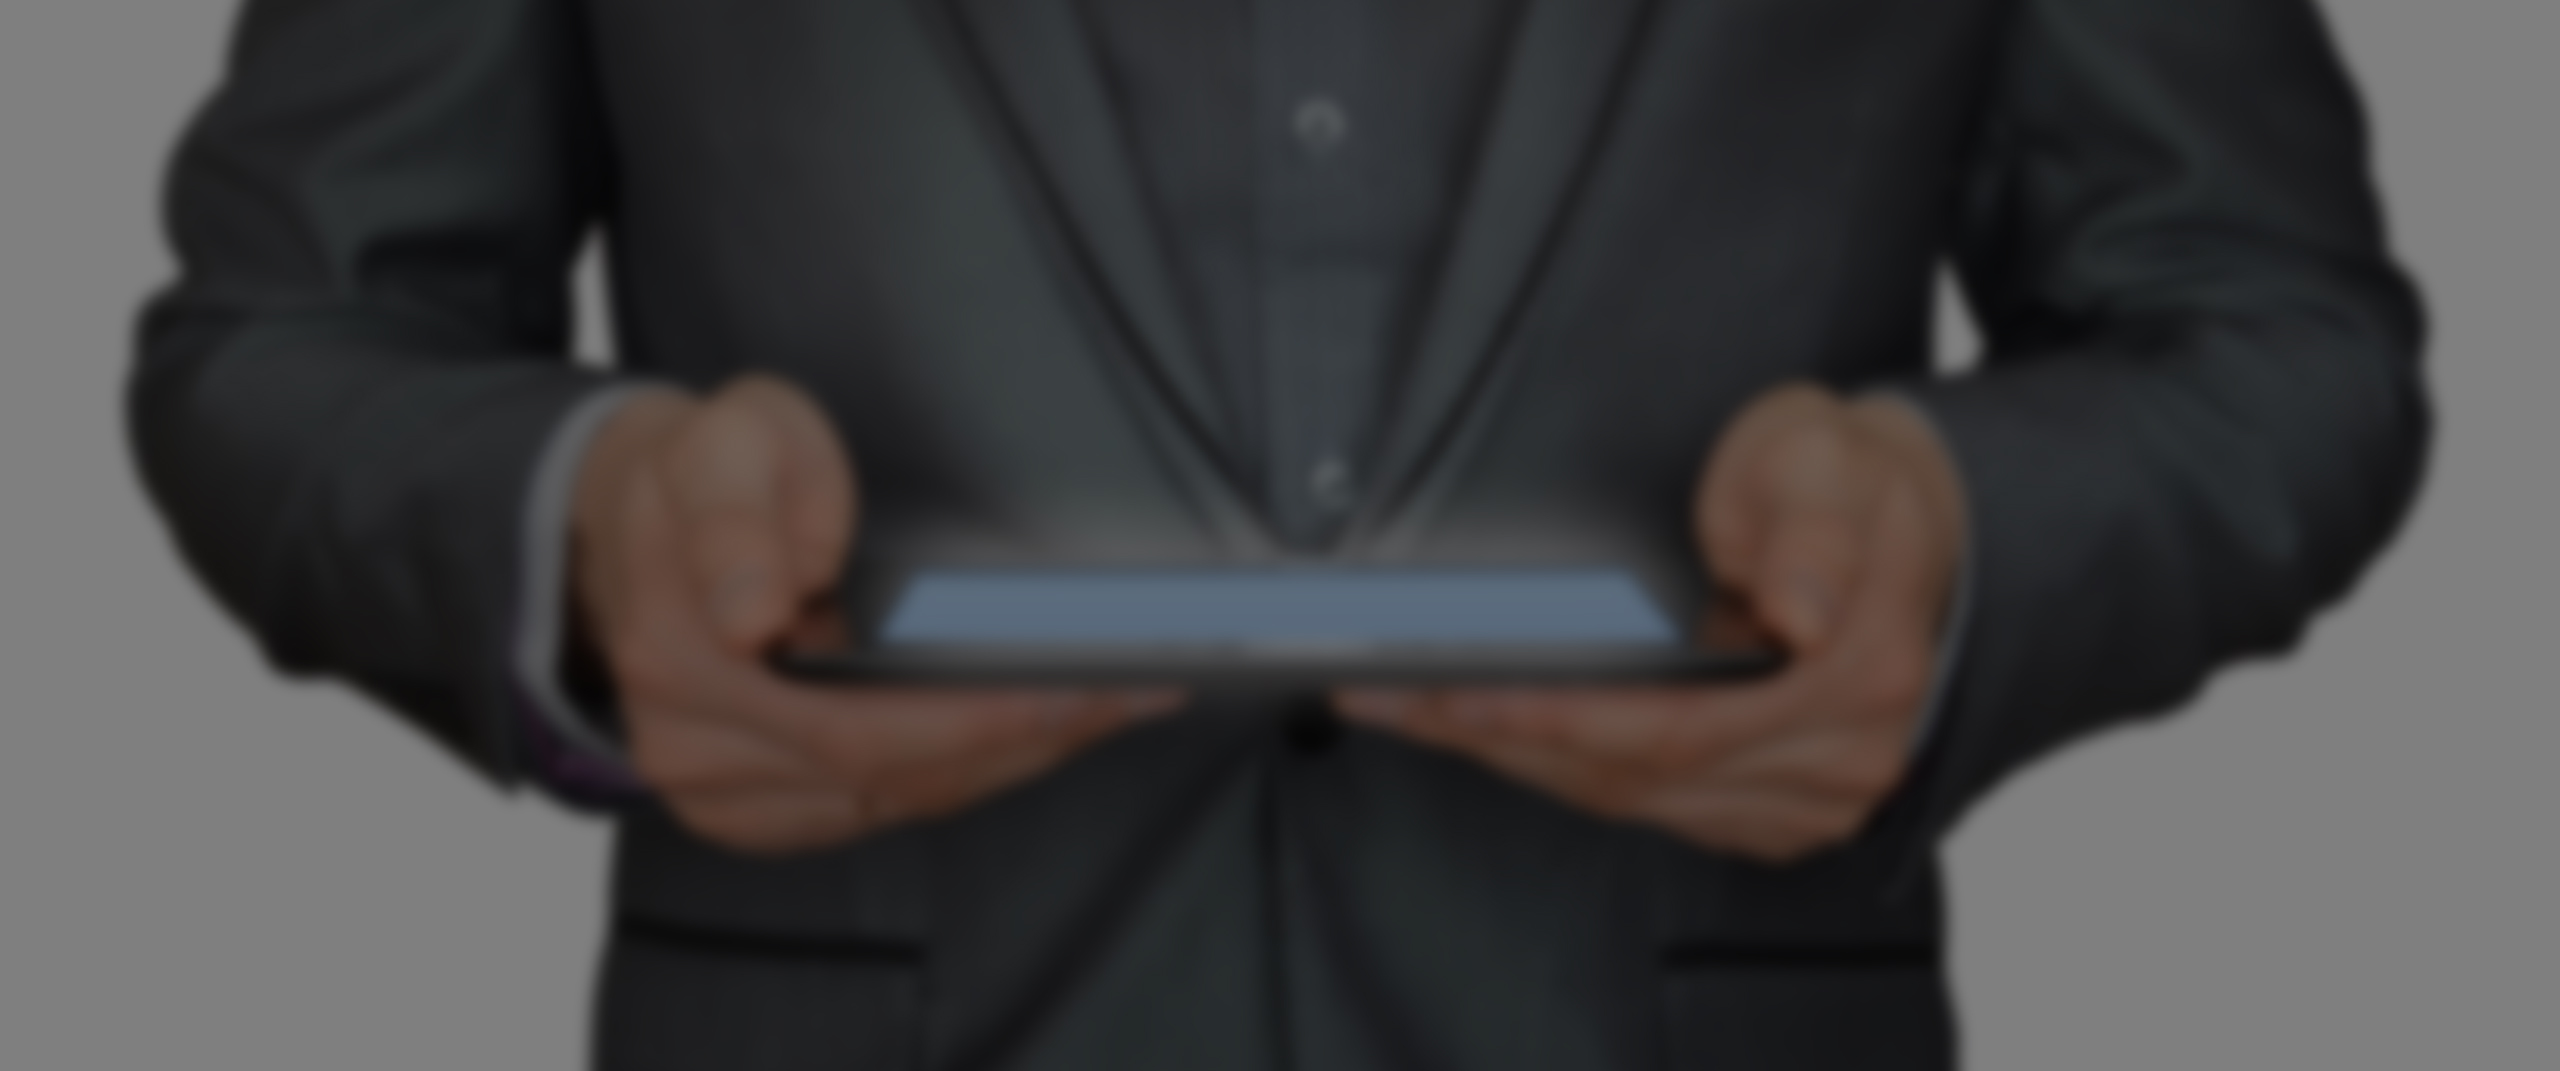
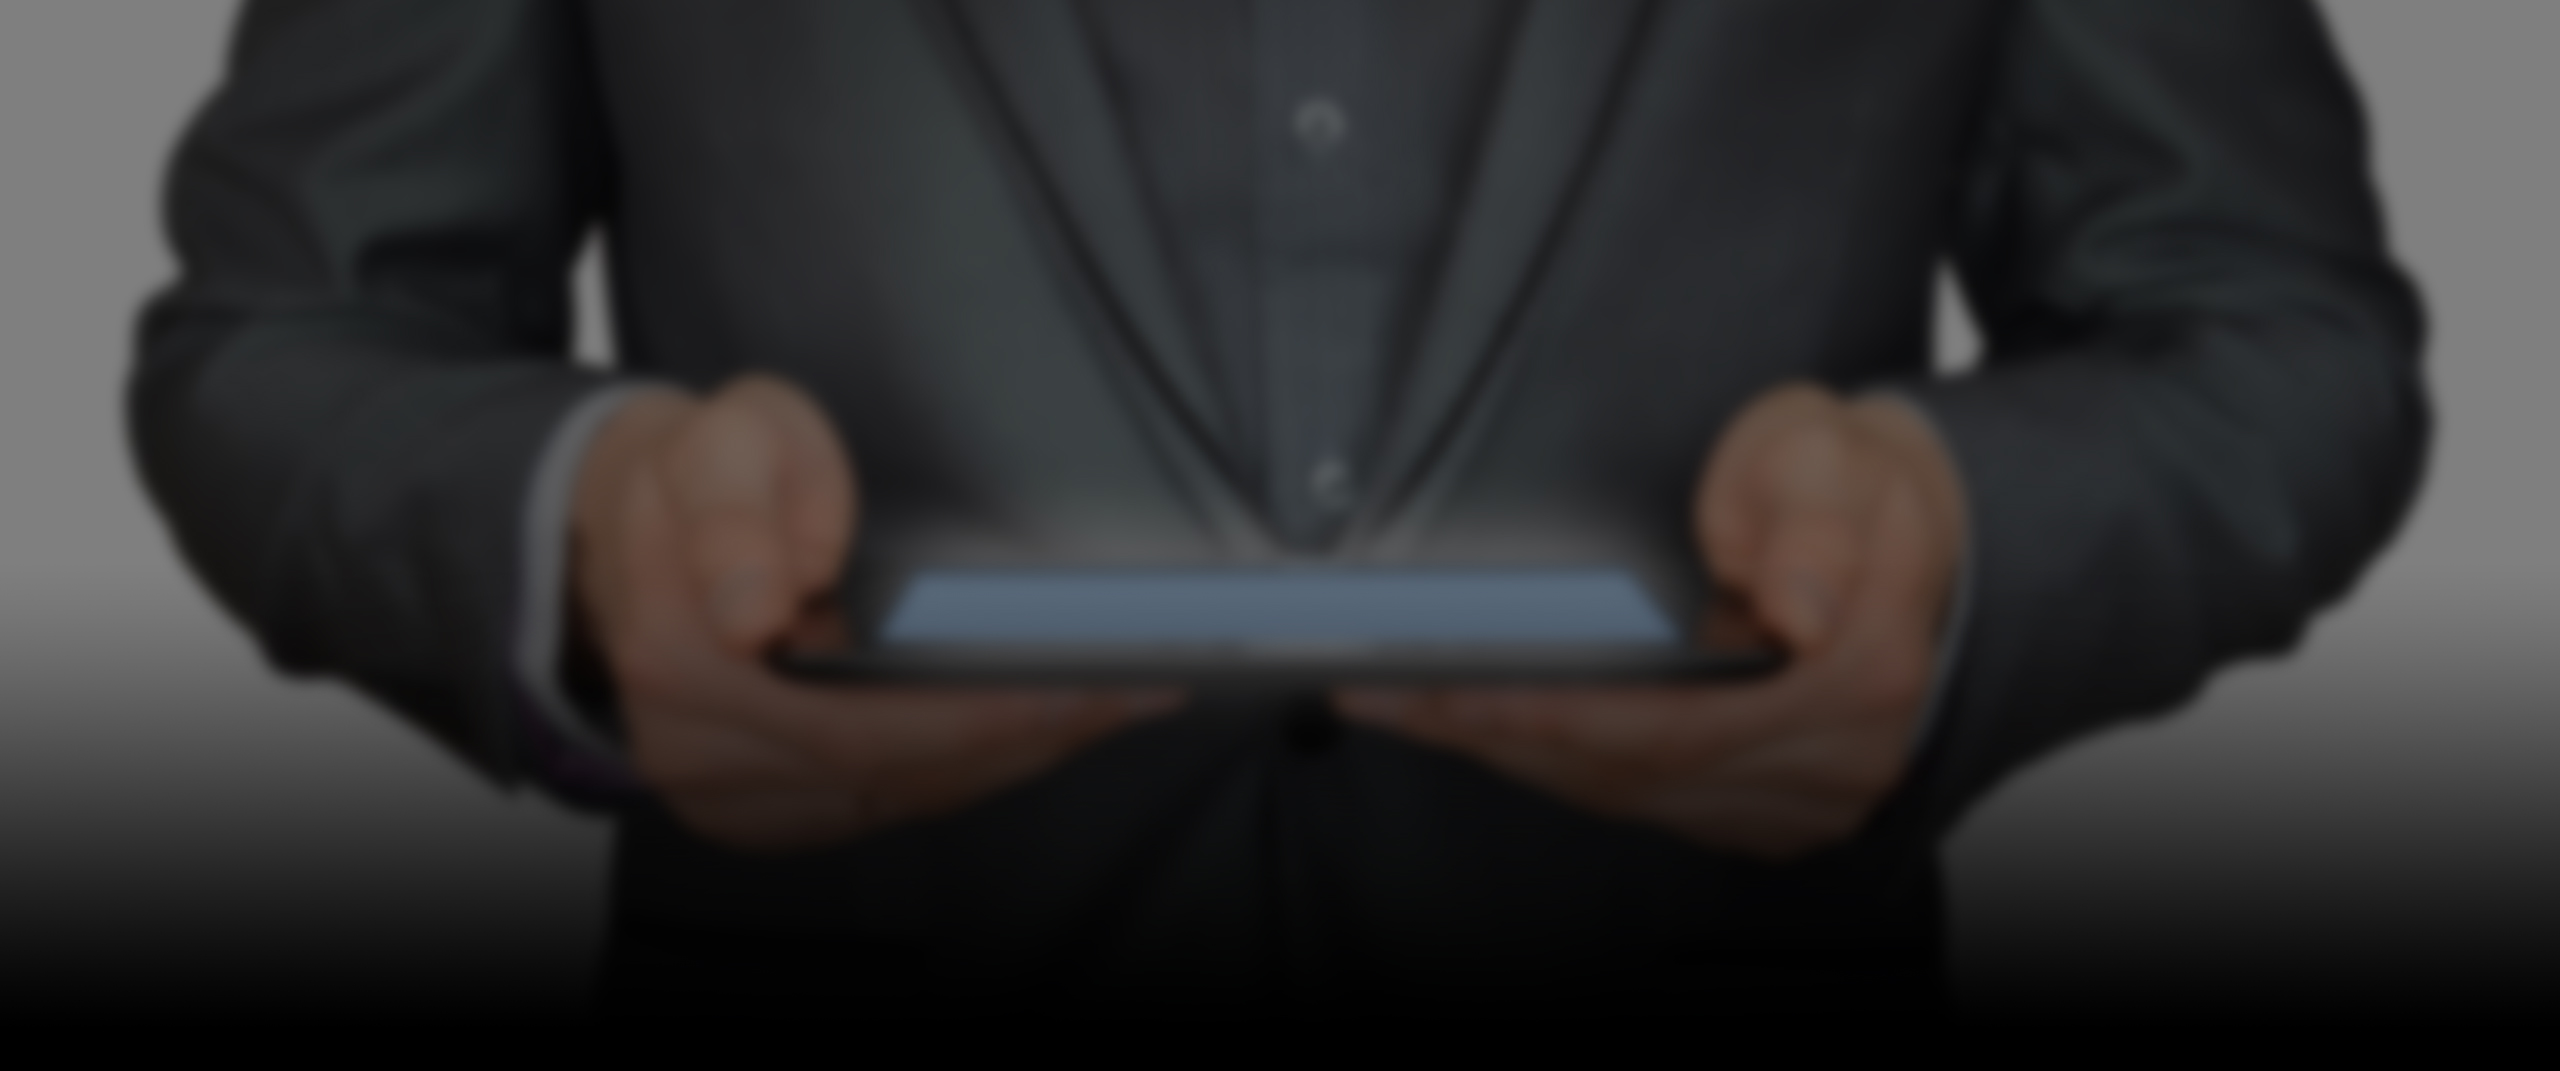
added footer and modal warning

Changed region(s): [[0.0, 0.6162, 0.7188, 1.0], [0.5312, 0.6162, 1.0, 1.0]]

diff --git a/src/components/footer/index.js b/src/components/footer/index.js
@@ -1,0 +1,111 @@
+import React from 'react'
+import styled from 'styled-components'
+import Col from '../col'
+
+const Wrapper = styled.footer`
+  background: #7D7D7D;
+  display: flex;
+  flex-direction: column;
+  justify-content: center;
+  align-items: center;
+  padding: 20px 0px 0px 0px;
+`
+
+const Row = styled.div`
+  display: flex;
+  flex-direction: row;
+  justify-content: space-around;
+  width: 80%;
+`
+
+const Logo = styled.img`
+  width: 100%;
+  margin-left: 100px;
+`
+const Paragraph = styled.p`
+  width: 66%;
+  font-size: 18px;
+  color: #FFF;
+  font-weight: 200;
+  margin-left: 50px;
+`
+const Anchor = styled.a`
+  color: #FFF;
+  font-size: 2em;
+  margin: 0px 10px;
+  &:nth-child(4){
+    margin-right:40px;
+  }
+`
+
+const Hr = styled.hr`
+  border: 2px solid #ED4630;
+  border-radius: 5px;
+  width: 80%;
+`
+const SubFooter = styled.div`
+  display: flex;
+  justify-content: center;
+  align-items: center;
+  background: #7A2014;
+  height: 80px;
+  width: 100%;
+`
+
+const Copy = styled.div`
+  color: #FFF;
+  font-weight: 200;
+`
+
+const Image = styled.img`
+  width: 50%;
+  margin: 20px 0px;
+`
+
+const Footer = props => (
+  <Wrapper>
+    <Row>
+      <Col>
+        <Logo src='assets/img/logo500_footer.png' alt='Logo 500' />
+      </Col>
+      <Col>
+        <Paragraph>
+          Transparencia Mexicana y Mexicanos contra la Corrupción y la
+          impunidad, en alianza con la Revista Expansión, presentan "500
+          Frente a la Corrupción. Integridad Corporativa", el primer diagnóstico
+          sobre politicas anticorrupción o de integridad de las 500 empresas
+          mas importantes de México.
+        </Paragraph>
+      </Col>
+      <Col>
+        <Row>
+          <Anchor href='https://facebook.com' target='_blank' rel='noopener noreferrer'>
+            <i className='fa fa-facebook' aria-hidden='true' />
+          </Anchor>
+          <Anchor href='https://twitter.com' target='_blank' rel='noopener noreferrer'>
+            <i className='fa fa-twitter' aria-hidden='true' />
+          </Anchor>
+          <Anchor href='https://instagram.com' target='_blank' rel='noopener noreferrer'>
+            <i className='fa fa-instagram' aria-hidden='true' />
+          </Anchor>
+          <Anchor href='https://youtube.com' target='_blank' rel='noopener noreferrer'>
+            <i className='fa fa-youtube-play' aria-hidden='true' />
+          </Anchor>
+        </Row>
+      </Col>
+    </Row>
+    <Hr />
+    <Row>
+      <Col><Image src='assets/img/transparencia_mexicana_footer.png' alt='' /></Col>
+      <Col><Image src='assets/img/expansion_footer.png' alt='' /></Col>
+      <Col><Image src='assets/img/mcci_footer.png' alt='' /></Col>
+    </Row>
+    <SubFooter>
+      <Row>
+        <Copy>Copyright- 2017, All Right Reserved</Copy>
+      </Row>
+    </SubFooter>
+  </Wrapper>
+)
+
+export default Footer

diff --git a/src/components/dialog/index.js b/src/components/dialog/index.js
@@ -1,0 +1,107 @@
+import React from 'react'
+import styled, {keyframes} from 'styled-components'
+
+const fadeIn = keyframes`
+  from {
+    background: rgba(0,0,0,0);
+    visibility: hidden;
+  }
+  to {
+    background: rgba(0,0,0,0.5);
+    visibility: initial;
+  }
+`
+
+const fadeOut = keyframes`
+  from {
+    background: rgba(0,0,0,0.5);
+    visibility: initial;
+  }
+  to {
+    background: rgba(0,0,0,0);
+    visibility: hidden;
+  }
+`
+
+const slideIn = keyframes`
+  from {
+    top: -200px;
+  }
+  to {
+    top: 200px;
+  }
+`
+
+const slideOut = keyframes`
+  from {
+    top: 200px;
+  }
+  to {
+    top: -200px;
+  }
+`
+
+const Wrapper = styled.div`
+  position: absolute;
+  background: ${props => props.isVisible ? 'rgba(0,0,0,0.5)' : 'rgba(0,0,0,0)'};
+  height: 100%;
+  width: 100%;
+  top: 0px;
+  left: 0px;
+  animation-name: ${props => props.isVisible ? fadeIn : fadeOut};
+  animation-duration:1s;
+  visibility: ${props => props.isVisible ? 'initial' : 'hidden'};
+`
+
+const Card = styled.div`
+  z-index:15;
+  background: #FAFAFA;
+  position: absolute;
+  box-shadow: 1px 10px 40px 0px rgba(0,0,0,0.3);
+  box-sizing: border-box;
+  border-radius:10px;
+  width: 40%;
+  top: ${props => props.isVisible ? '200px' : '-200px'};
+  left: 30%;
+  text-align: justify;
+  padding: 20px;
+  animation-name: ${props => props.isVisible ? slideIn : slideOut};
+  animation-duration: 1s;
+`
+
+const Icon = styled.i`
+  position: relative;
+  left: 98.5%;
+  top: -10px;
+  font-size:18px;
+  cursor:pointer;
+  color: #AEAEAE;
+  transition:0.3s;
+  &:hover{
+    color: #7A7A7A;
+  }
+`
+
+const Title = styled.h3`
+  font-weight:bold;
+  margin-bottom:10px;
+  text-align:center;
+  font-size:24px;
+`
+
+const P = styled.p`
+  color: #616161;
+  padding:15px;
+`
+
+const Dialog = (props) => (
+  <Wrapper isVisible={props.isVisible}>
+    <Card isVisible={props.isVisible} >
+      <Icon className="fa fa-times" aria-hidden="true" onClick={props.onClickClose}/>
+      <Title>¡ADVERTENCIA!</Title>
+      <P>500 Frente A la Corrupción no es un índice sobre la corrupción en las empresas más importantes del país. Es una evaluación de los compromisos públicos en favor de las políticas de integridad. No de su cumplimiento</P>
+    </Card>
+  </Wrapper>
+)
+
+export default Dialog

diff --git a/src/containers/home/index.js b/src/containers/home/index.js
@@ -9,7 +9,9 @@ import {
   CollapseBox,
   Col,
   Section,
-  Subtitle
+  Subtitle,
+  Footer,
+  Dialog
 } from '../../components'
 import './styles.css'
 
@@ -27,7 +29,8 @@ class Home extends Component {
         graphics: '',
         data: '',
         newsWall: ''
-      }
+      },
+      modalOpen: true,
     }
 
     this.openBox = this.openBox.bind(this)
@@ -35,7 +38,8 @@ class Home extends Component {
   render () {
     const {
       isOpen,
-      rotate
+      rotate,
+      modalOpen
     } = this.state
     return (
       <div>
@@ -56,7 +60,7 @@ class Home extends Component {
           <Banner500 />
         </section>
         <Section>
-          <Title color={(isOpen.graphics) ? '#ED4630' : false}>GRÁFICAS</Title>
+          <Title color={(isOpen.graphics) ? '#ED4630' : ''}>GRÁFICAS</Title>
           <Col>
             <CollapseBox isOpen={isOpen.graphics} >
               <Row>
@@ -67,7 +71,7 @@ class Home extends Component {
           </Col>
         </Section>
         <Section background='#F2F2F2'>
-          <Title color={(isOpen.data) ? '#ED4630' : false}>INFORMACIÓN ACTUALIZADA</Title>
+          <Title color={(isOpen.data) ? '#ED4630' : ''}>INFORMACIÓN ACTUALIZADA</Title>
           <Subtitle>DE LAS 500 FRENTE A LA CORRUPCIÓN</Subtitle>
           <Col>
             <CollapseBox isOpen={isOpen.data} >
@@ -79,7 +83,7 @@ class Home extends Component {
           </Col>
         </Section>
         <Section>
-          <Title color={(isOpen.newsWall) ? '#ED4630' : false}>MURO DE NOTICIAS</Title>
+          <Title color={(isOpen.newsWall) ? '#ED4630' : ''}>MURO DE NOTICIAS</Title>
           <Col>
             <CollapseBox isOpen={isOpen.newsWall}>
               <Row>
@@ -89,6 +93,8 @@ class Home extends Component {
             <i className={`fa fa-caret-down fa-4x ${rotate.newsWall} icon`} aria-hidden='true' onClick={() => this.openBox('newsWall')} />
           </Col>
         </Section>
+        <Footer />
+        <Dialog isVisible={modalOpen} onClickClose={() => this.setState({modalOpen: !modalOpen})}/>
       </div>
     )
   }

diff --git a/src/components/main_banner/index.js b/src/components/main_banner/index.js
@@ -8,6 +8,7 @@ const Wrapper = styled.section`
   display:flex;
   flex-flow:column;
   justify-content:center;
+  background-position-x: center;
 `
 
 const Logo = styled.img`
@@ -59,7 +60,9 @@ const MainBanner = (props) => {
         <Logo src='assets/img/logo500.png' alt='logo 500' />
       </Row>
       <Row>
-        <SubTitle>El primer diagnóstico sobre políticas anticorrupción o de integridad de las 500 empresas más importantes de México.</SubTitle>
+        <SubTitle>
+          Compartir y replicar buenas prácticas anticorrupción refrenda el compromiso del sector privado en la lucha contra la corrupción y la impunidad, y mejora la rendición de cuentas hacia socios, accionistas y clientes. En alianza, Expansión, Transparencia Mexicana y Mexicanos Contra la Corrupción y la Impunidad, buscan sumar al sector privado a la lucha 
+        </SubTitle>
       </Row>
       <Hr />
       <Row center>

diff --git a/src/components/index.js b/src/components/index.js
@@ -8,6 +8,8 @@ import CollapseBox from './collapse-box'
 import Col from './col'
 import Section from './section'
 import Subtitle from './subtitle'
+import Footer from './footer'
+import Dialog from './dialog'
 
 export {
   NavigationBar,
@@ -19,5 +21,7 @@ export {
   CollapseBox,
   Col,
   Section,
-  Subtitle
+  Subtitle,
+  Footer,
+  Dialog
 }
